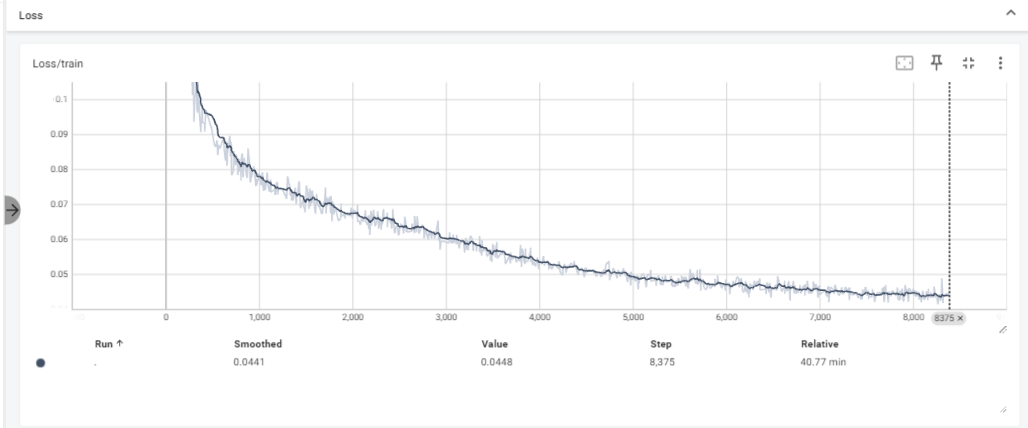
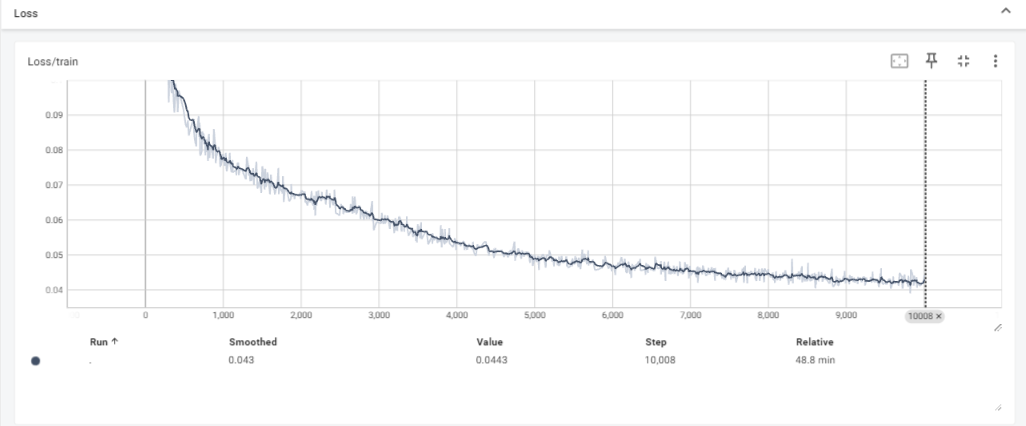
update readme

diff --git a/README.md b/README.md
@@ -18,7 +18,7 @@ Diffusion Transformers trained on MNIST dataset
 
 ## Loss
 
-![loss](./assets/loss.png)
+![final loss](./assets/loss.png)
 
 ## Inference
 
